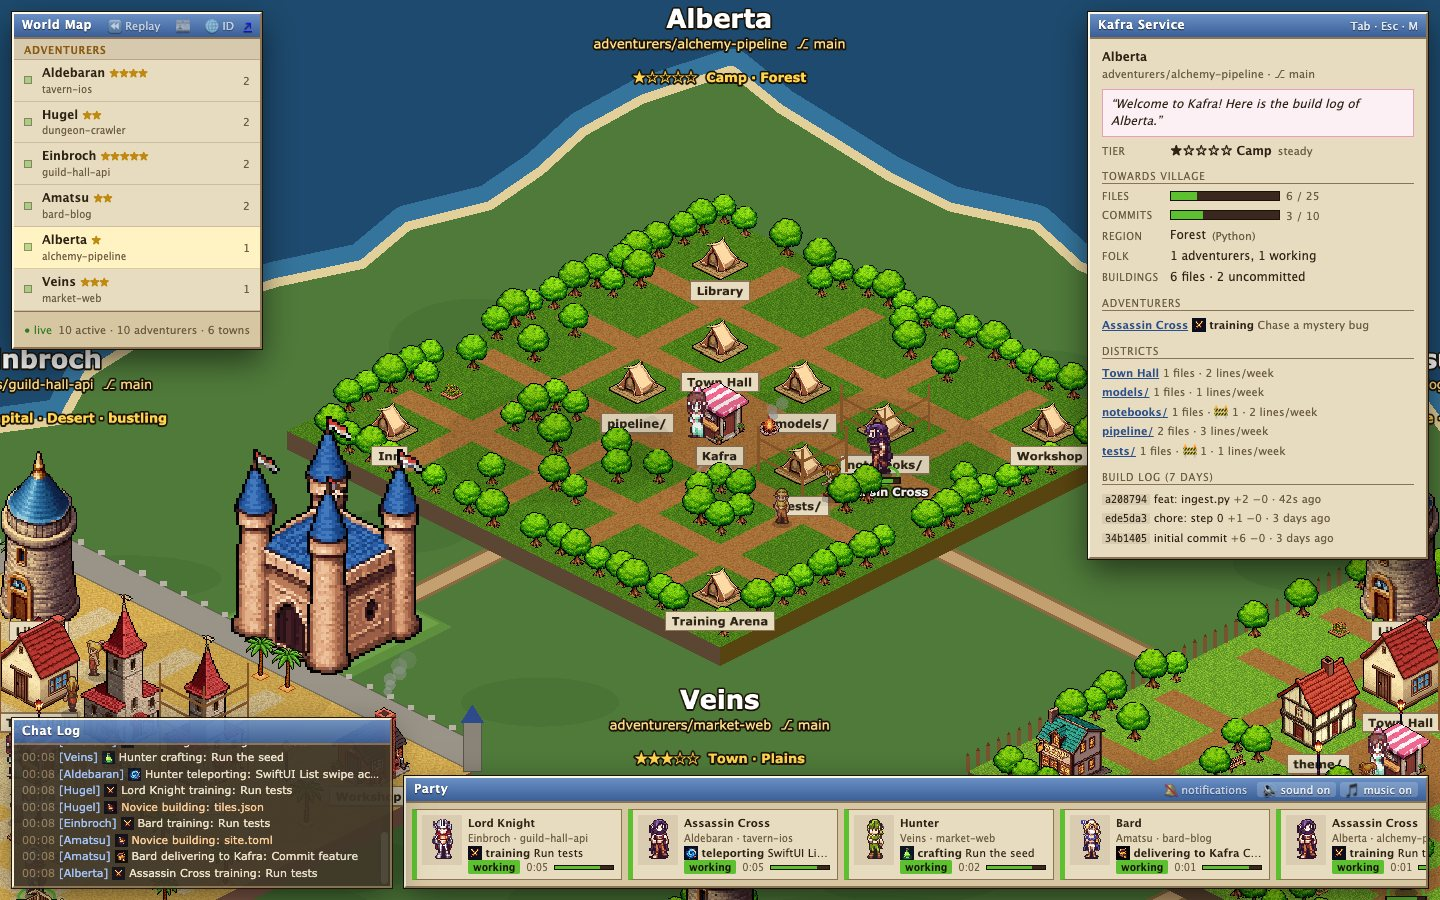
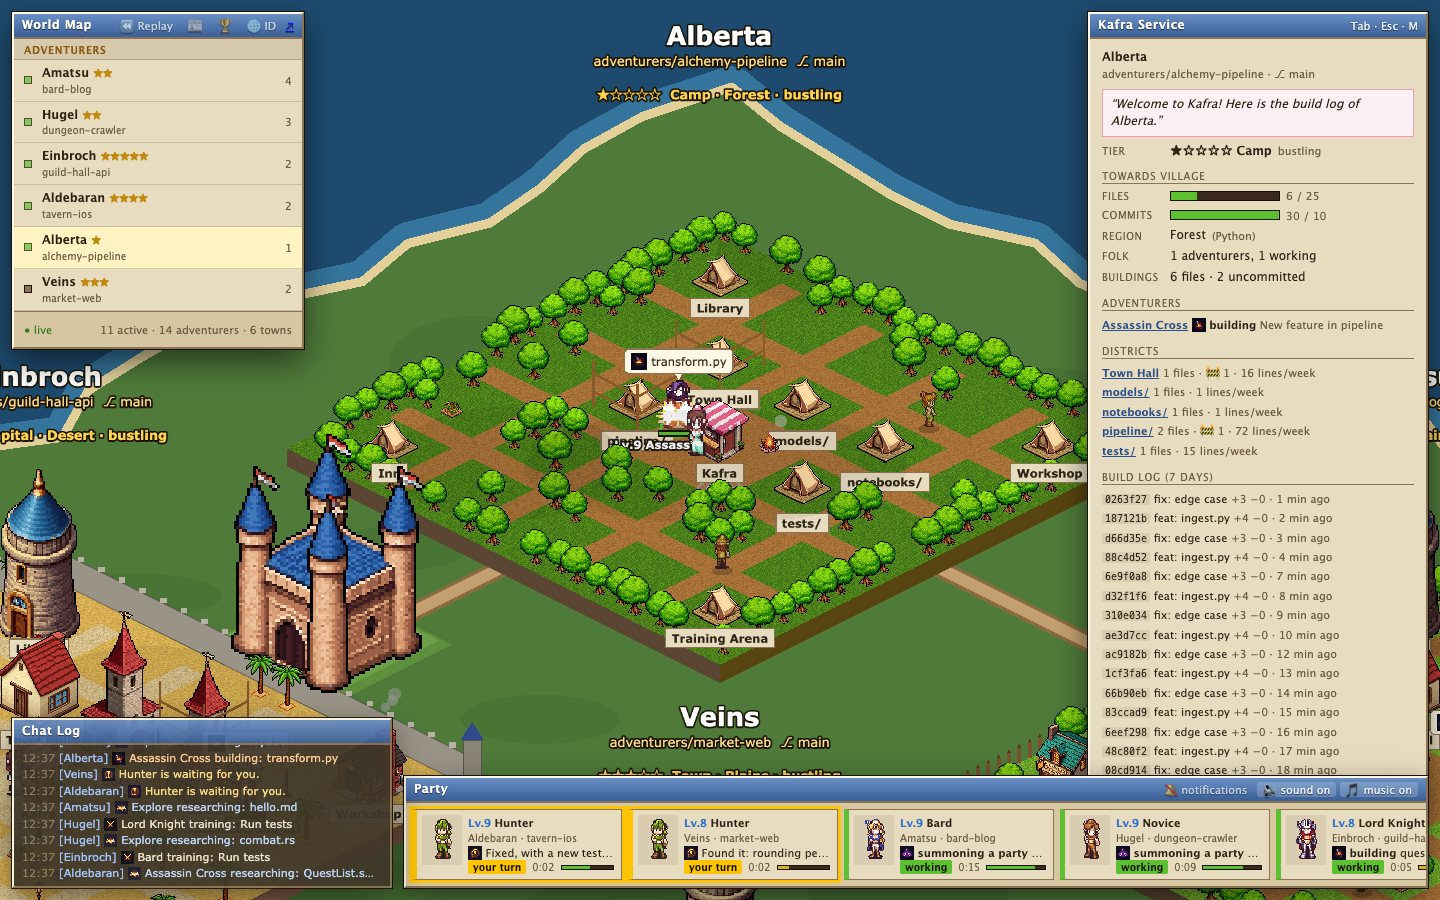
Release v0.2.0 with fresh screenshots

diff --git a/README.md b/README.md
@@ -209,6 +209,10 @@ runs in a row, Architect, Veteran and Hero, Full Party, Busy Guild, Multiclass,
 Kingdom, City Builder, Capital, and Night Owl. An unlock shows a banner; 🏆 in
 the World Map window lists them all.
 
+| A Lv.2 bug in the Training Arena | 🏆 Achievements |
+|:-:|:-:|
+| ![An Assassin Cross fights an orange Lv.2 bug while its tests fail](docs/images/arena.jpg) | ![The achievements list, eight of fourteen unlocked](docs/images/achievements.jpg) |
+
 ## 💫 Status effects
 
 | Ring | Meaning |

diff --git a/CHANGELOG.md b/CHANGELOG.md
@@ -1,6 +1,6 @@
 # Changelog
 
-## Unreleased
+## v0.2.0 — more agents, achievements and a faster world
 
 - A town that grows a tier now celebrates: every building rises out of the
   ground in dust and sparks, a capital's castle last, then fireworks and a
